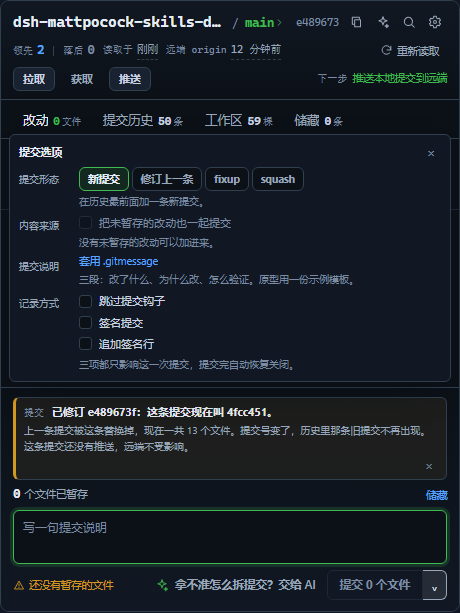
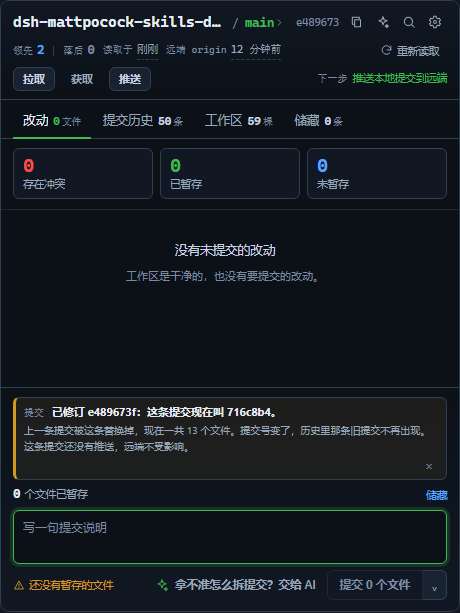
原型：提交选项收起后仍看得见，Esc 与点外面能关掉
从用户视角回看，四个问题的共同点是「选择做完就看不见了」，一起修：

- 跳过钩子、签名提交、追加签名行开着时，在提交按钮上方多一行标签（跳过钩子是危险色），
  箭头的说明里也列出已开启项；这三项原来收起浮层后没有任何痕迹，可能静默跳过提交前检查。
- 展开区按 Esc 或点它外面收起，换页签也收起，焦点回到箭头；它盖在文件列表上，
  收不起来就只能回去够那颗箭头。
- 一次提交成功后形态回到「新提交」，三个记录方式与「一起提交」一起归零；
  fixup / squash 原来提交完还停在自动说明那一屏，输入框回不来。
- 「一起提交」的底部提示写明只收已跟踪的改动、份数多少，未跟踪的新文件不算。

新增 79 / 80 两张截图（浮层收起时的标签，深色 460 与浅色 300）；默认首屏与 62 / 63 / 65 仍一致。

diff --git a/docs/prototype/vc-redesign/app.js b/docs/prototype/vc-redesign/app.js
@@ -3730,7 +3730,7 @@
       case "demo-worktrees":
         return { ...state, demoWorktrees: true };
       case "view":
-        return { ...state, view: action.view };
+        return { ...state, view: action.view, commitOptionsOpen: false };
       case "tick":
         return { ...state };
       case "stage": {
@@ -3872,7 +3872,11 @@
           skipHooks: false,
           signCommit: false,
           signoff: false,
-          templateApplied: false
+          templateApplied: false,
+          // 提交完成之后这次的选择已经用掉了：形态回到「新提交」，展开区收起
+          // （展开区里每一项都是「这一次提交」的设置，留着它只会让人以为还有效）。
+          commitForm: "commit",
+          commitOptionsOpen: false
         };
         if (form === "amend" && head !== null) {
           const amended = {
@@ -3892,7 +3896,6 @@
             ...state,
             ...baseReset,
             message: "",
-            commitForm: "commit",
             replacedOid,
             localCommits: headIsLocal ? [amended, ...state.localCommits.slice(1)] : [amended, ...state.localCommits],
             ahead: pushed ? 1 : state.ahead,
@@ -4865,7 +4868,11 @@
       }
     }
     const commitLabel = form === "amend" ? COPY.commitOptions.labelAmend : form === "fixup" ? COPY.commitOptions.labelFixup : form === "squash" ? COPY.commitOptions.labelSquash : COPY.changes.commitLabel(effectiveCount);
-    const commitHint = form === "amend" ? effectiveCount === 0 ? "\u8FD9\u6B21\u53EA\u6539\u63D0\u4EA4\u8BF4\u660E\uFF0C\u5185\u5BB9\u6CBF\u7528\u4E0A\u4E00\u6761\u63D0\u4EA4\u3002" : "\u8FD9\u6B21\u4F1A\u628A\u5DF2\u6682\u5B58\u7684\u6587\u4EF6\u5E76\u8FDB\u4E0A\u4E00\u6761\u63D0\u4EA4\uFF0C\u63D0\u4EA4\u53F7\u4F1A\u53D8\u3002" : form === "fixup" ? "fixup \u63D0\u4EA4\u6302\u5728\u5386\u53F2\u6700\u524D\u9762\uFF0C\u7B49\u6574\u7406\u5386\u53F2\u65F6\u538B\u56DE\u4E0A\u4E00\u6761\u3002" : form === "squash" ? "squash \u63D0\u4EA4\u6302\u5728\u5386\u53F2\u6700\u524D\u9762\uFF0C\u7B49\u6574\u7406\u5386\u53F2\u65F6\u548C\u4E0A\u4E00\u6761\u5E76\u6210\u4E00\u6761\u3002" : alsoTracked.length > 0 ? "\u672A\u6682\u5B58\u7684\u6539\u52A8\u4F1A\u5148\u88AB\u6682\u5B58\uFF0C\u518D\u4E00\u8D77\u63D0\u4EA4\u3002" : COPY.changes.messageHint;
+    const commitHint = form === "amend" ? effectiveCount === 0 ? "\u8FD9\u6B21\u53EA\u6539\u63D0\u4EA4\u8BF4\u660E\uFF0C\u5185\u5BB9\u6CBF\u7528\u4E0A\u4E00\u6761\u63D0\u4EA4\u3002" : "\u8FD9\u6B21\u4F1A\u628A\u5DF2\u6682\u5B58\u7684\u6587\u4EF6\u5E76\u8FDB\u4E0A\u4E00\u6761\u63D0\u4EA4\uFF0C\u63D0\u4EA4\u53F7\u4F1A\u53D8\u3002" : form === "fixup" ? "fixup \u63D0\u4EA4\u6302\u5728\u5386\u53F2\u6700\u524D\u9762\uFF0C\u7B49\u6574\u7406\u5386\u53F2\u65F6\u538B\u56DE\u4E0A\u4E00\u6761\u3002" : form === "squash" ? "squash \u63D0\u4EA4\u6302\u5728\u5386\u53F2\u6700\u524D\u9762\uFF0C\u7B49\u6574\u7406\u5386\u53F2\u65F6\u548C\u4E0A\u4E00\u6761\u5E76\u6210\u4E00\u6761\u3002" : alsoTracked.length > 0 ? "\u4F1A\u5148\u6682\u5B58\u8FD9 " + alsoTracked.length + " \u4E2A\u5DF2\u8DDF\u8E2A\u7684\u6539\u52A8\uFF1B\u672A\u8DDF\u8E2A\u7684\u65B0\u6587\u4EF6\u4E0D\u7B97\u3002" : COPY.changes.messageHint;
+    const recordFlags = [];
+    if (state.skipHooks) recordFlags.push({ label: COPY.commitOptions.skipHooks, hint: COPY.commitOptions.skipHooksNote });
+    if (state.signCommit) recordFlags.push({ label: COPY.commitOptions.signCommit, hint: COPY.commitOptions.signCommitNote });
+    if (state.signoff) recordFlags.push({ label: COPY.commitOptions.signoff, hint: COPY.commitOptions.signoffNote });
     const changeCount = state.staged.length + state.unstaged.length;
     return {
       stats: [
@@ -4897,6 +4904,7 @@
         disabledReason,
         busy: state.busy === "commit",
         label: commitLabel,
+        flags: recordFlags,
         optionsOpen: state.commitOptionsOpen,
         options: {
           form,
@@ -8242,14 +8250,15 @@
       action: "commit",
       focusKey: "commit"
     });
+    const flagNames = model.composer.flags.map((flag) => flag.label).join("\u3001");
     const optionsToggle = h("button", {
       class: "commit-options-toggle" + (model.composer.optionsOpen ? " is-on" : ""),
       attrs: {
         type: "button",
         "aria-expanded": model.composer.optionsOpen ? "true" : "false",
         "aria-haspopup": "true",
-        "aria-label": COPY.commitOptions.triggerLabel,
-        title: COPY.commitOptions.triggerHint,
+        "aria-label": flagNames === "" ? COPY.commitOptions.triggerLabel : COPY.commitOptions.triggerLabel + "\uFF08\u5DF2\u5F00\u542F\uFF1A" + flagNames + "\uFF09",
+        title: flagNames === "" ? COPY.commitOptions.triggerHint : COPY.commitOptions.triggerHint + "\u3002\u5DF2\u5F00\u542F\uFF1A" + flagNames,
         "data-focus-key": "commit-options"
       },
       dataset: { action: "commit-options-toggle" }
@@ -8260,6 +8269,11 @@
       icon("alert", 12),
       h("span", { text: model.composer.disabledReason })
     );
+    const flagNode = model.composer.flags.length === 0 ? null : h(
+      "div",
+      { class: "composer-flags", attrs: { role: "status", "aria-label": "\u8FD9\u6B21\u63D0\u4EA4\u5DF2\u6253\u5F00\u7684\u8BB0\u5F55\u65B9\u5F0F" } },
+      ...model.composer.flags.map((flag) => chip(flag.label, flag.label === COPY.commitOptions.skipHooks ? "warn" : "info", { small: true, title: flag.hint }))
+    );
     const foot = h(
       "div",
       { class: "composer-foot", id: "commit-hint" },
@@ -8267,7 +8281,9 @@
       handoffEntry(HANDOFF_ENTRY.changes, "changes"),
       h("div", { class: "commit-split" }, commitButton, optionsToggle)
     );
-    composer.append(stagedLine, messageNode, foot);
+    composer.append(stagedLine, messageNode);
+    if (flagNode !== null) composer.append(flagNode);
+    composer.append(foot);
     if (model.composer.optionsOpen) composer.append(renderCommitOptions(model.composer));
     view.append(filterRow, list, composer);
     return view;
@@ -11807,6 +11823,11 @@
         repaint({ focusKey: `handoff-${previous}` });
         return;
       }
+      if (event.key === "Escape" && state.commitOptionsOpen) {
+        event.preventDefault();
+        dispatch({ type: "commit-options-toggle" }, { focusKey: "commit-options" });
+        return;
+      }
       if (event.key === "Escape" && state.changesPending !== null) {
         event.preventDefault();
         dispatch({ type: "changes-pending", pending: null }, { focusKey: lastFocusKey });
@@ -11882,6 +11903,9 @@
       if (state.branchOpen && target.closest(".branch-pop") === null && target.closest('[data-action="branch-open"]') === null) {
         state = reduce(state, { type: "branch-close" }, base);
         repaint({ focusKey: "branch-open" });
+      }
+      if (state.commitOptionsOpen && target.closest(".commit-options") === null && target.closest('[data-action="commit-options-toggle"]') === null) {
+        dispatch({ type: "commit-options-toggle" }, { focusKey: lastFocusKey });
       }
       const insideTransient = target.closest(".row-menu, .row-more, .row-act, .commit-menu, .commit-more, .changes-confirm, .commit-confirm") !== null;
       if (!insideTransient && (commitMenuOid !== null || commitConfirmOid !== null || state.openMenuPath !== null)) {

diff --git a/docs/prototype/vc-redesign/src/ui/views/changes.ts b/docs/prototype/vc-redesign/src/ui/views/changes.ts
@@ -115,14 +115,17 @@ export function renderChanges(model: ChangesModel, result: ResultMessage | null)
   })
   // 「提交选项」的入口是贴在主按钮右边的一枚箭头：它属于这颗按钮，不新增一行、也不改首屏高度，
   // 展开区里的形态、模板、钩子与签名只在点开之后出现。
+  // 展开区收起以后，跳过钩子 / 签名 / 签名行在别处看不出来：把它们的名字写进箭头自己的说明里，
+  // 读屏器停在箭头上就能听到「已开启：跳过钩子」，不用先把展开区点开。
+  const flagNames = model.composer.flags.map((flag) => flag.label).join('、')
   const optionsToggle = h('button', {
     class: 'commit-options-toggle' + (model.composer.optionsOpen ? ' is-on' : ''),
     attrs: {
       type: 'button',
       'aria-expanded': model.composer.optionsOpen ? 'true' : 'false',
       'aria-haspopup': 'true',
-      'aria-label': COPY.commitOptions.triggerLabel,
-      title: COPY.commitOptions.triggerHint,
+      'aria-label': flagNames === '' ? COPY.commitOptions.triggerLabel : COPY.commitOptions.triggerLabel + '（已开启：' + flagNames + '）',
+      title: flagNames === '' ? COPY.commitOptions.triggerHint : COPY.commitOptions.triggerHint + '。已开启：' + flagNames,
       'data-focus-key': 'commit-options',
     },
     dataset: { action: 'commit-options-toggle' },
@@ -135,11 +138,19 @@ export function renderChanges(model: ChangesModel, result: ResultMessage | null)
     ? h('span', { class: 'hint-text', text: model.composer.hint })
     : h('span', { class: 'composer-reason', id: 'commit-reason' },
       icon('alert', 12), h('span', { text: model.composer.disabledReason }))
+  // 记录方式一开着就单独占一行，贴在提交按钮上方：跳过钩子会改变提交前检查，
+  // 不能只活在收起后的展开区里；塞进脚注那一行会和禁用原因抢宽度，窄档下两边都读不成句。
+  const flagNode = model.composer.flags.length === 0
+    ? null
+    : h('div', { class: 'composer-flags', attrs: { role: 'status', 'aria-label': '这次提交已打开的记录方式' } },
+      ...model.composer.flags.map((flag) => chip(flag.label, flag.label === COPY.commitOptions.skipHooks ? 'warn' : 'info', { small: true, title: flag.hint })))
   const foot = h('div', { class: 'composer-foot', id: 'commit-hint' },
     footLeft,
     handoffEntry(HANDOFF_ENTRY.changes, 'changes'),
     h('div', { class: 'commit-split' }, commitButton, optionsToggle))
-  composer.append(stagedLine, messageNode, foot)
+  composer.append(stagedLine, messageNode)
+  if (flagNode !== null) composer.append(flagNode)
+  composer.append(foot)
   // 提交选项贴在提交区上方浮起来，不再挤占文件列表：它是一次临时选择（形态、模板、钩子、签名），
   // 松开以后文件列表还是原来那么高。这和分支浮层、行菜单是同一种「贴触发点的浮层」。
   if (model.composer.optionsOpen) composer.append(renderCommitOptions(model.composer))

diff --git a/docs/prototype/vc-redesign/src/domain/select.ts b/docs/prototype/vc-redesign/src/domain/select.ts
@@ -126,6 +126,13 @@ export interface CommitOptionsModel {
   messageEditable: boolean
 }
 
+/** 一条「开着但收起后看不见」的记录方式：名字与原因一起做成一枚贴着提交按钮的小标签。 */
+export interface ComposerFlagModel {
+  label: string
+  /** 悬停时补一句后果，例如「提交前的检查不会跑」。 */
+  hint: string
+}
+
 export interface ComposerModel {
   stagedCount: number
   message: string
@@ -136,6 +143,12 @@ export interface ComposerModel {
   busy: boolean
   /** 主按钮上的字：跟着提交形态变，读者不用打开展开区就知道这一下会做什么。 */
   label: string
+  /**
+   * 已经打开、但收起展开区之后在别处看不出来的选项（跳过钩子、签名、签名行）。
+   * 这三项一旦打开就会改变这一次提交被怎么记下来，所以必须在按钮旁边就说出来；
+   * 形态、-a 与模板各自会改按钮文字或输入框，不用再列一遍。
+   */
+  flags: ComposerFlagModel[]
   optionsOpen: boolean
   options: CommitOptionsModel
 }
@@ -644,8 +657,15 @@ export function changesOf(base: SessionBase, state: SessionState): ChangesModel 
       : form === 'squash'
         ? 'squash 提交挂在历史最前面，等整理历史时和上一条并成一条。'
         : alsoTracked.length > 0
-          ? '未暂存的改动会先被暂存，再一起提交。'
+          // 只写「未暂存的改动」会让人以为未跟踪的新文件也算进来：它们不在这一批里，必须点名。
+          ? '会先暂存这 ' + alsoTracked.length + ' 个已跟踪的改动；未跟踪的新文件不算。'
           : COPY.changes.messageHint
+
+  // 三个记录方式各自会让这次提交按另一种方式被记下来，收起展开区之后就只剩这里能看见。
+  const recordFlags: ComposerFlagModel[] = []
+  if (state.skipHooks) recordFlags.push({ label: COPY.commitOptions.skipHooks, hint: COPY.commitOptions.skipHooksNote })
+  if (state.signCommit) recordFlags.push({ label: COPY.commitOptions.signCommit, hint: COPY.commitOptions.signCommitNote })
+  if (state.signoff) recordFlags.push({ label: COPY.commitOptions.signoff, hint: COPY.commitOptions.signoffNote })
 
   const changeCount = state.staged.length + state.unstaged.length
   return {
@@ -678,6 +698,7 @@ export function changesOf(base: SessionBase, state: SessionState): ChangesModel 
       disabledReason,
       busy: state.busy === 'commit',
       label: commitLabel,
+      flags: recordFlags,
       optionsOpen: state.commitOptionsOpen,
       options: {
         form,

diff --git a/docs/prototype/vc-redesign/src/ui/app.ts b/docs/prototype/vc-redesign/src/ui/app.ts
@@ -1293,6 +1293,13 @@ export function mount(root: HTMLElement): void {
       repaint({ focusKey: `handoff-${previous}` })
       return
     }
+    // 提交选项盖在文件列表上，Esc 先收它：读者点开看一眼再想回去看文件时，
+    // 不该先去够那颗箭头。焦点回到箭头本身，下一次 Tab 仍然从这里往下走。
+    if (event.key === 'Escape' && state.commitOptionsOpen) {
+      event.preventDefault()
+      dispatch({ type: 'commit-options-toggle' }, { focusKey: 'commit-options' })
+      return
+    }
     if (event.key === 'Escape' && state.changesPending !== null) {
       event.preventDefault()
       dispatch({ type: 'changes-pending', pending: null }, { focusKey: lastFocusKey })
@@ -1374,6 +1381,10 @@ export function mount(root: HTMLElement): void {
     if (state.branchOpen && target.closest('.branch-pop') === null && target.closest('[data-action="branch-open"]') === null) {
       state = reduce(state, { type: 'branch-close' }, base)
       repaint({ focusKey: 'branch-open' })
+    }
+    // 提交选项也是一层贴着的浮层：点它自己和那颗箭头以外的地方都收起，和行菜单同一套规矩。
+    if (state.commitOptionsOpen && target.closest('.commit-options') === null && target.closest('[data-action="commit-options-toggle"]') === null) {
+      dispatch({ type: 'commit-options-toggle' }, { focusKey: lastFocusKey })
     }
     const insideTransient = target.closest('.row-menu, .row-more, .row-act, .commit-menu, .commit-more, .changes-confirm, .commit-confirm') !== null
     if (!insideTransient && (commitMenuOid !== null || commitConfirmOid !== null || state.openMenuPath !== null)) {

diff --git a/docs/prototype/vc-redesign/src/domain/session.ts b/docs/prototype/vc-redesign/src/domain/session.ts
@@ -405,7 +405,8 @@ export function reduce(state: SessionState, action: Action, base: SessionBase): 
     case 'demo-worktrees':
       return { ...state, demoWorktrees: true }
     case 'view':
-      return { ...state, view: action.view }
+      // 换页签等于离开这次提交：展开区收起，不把盖在列表上的浮层带到别的页签去。
+      return { ...state, view: action.view, commitOptionsOpen: false }
     case 'tick':
       return { ...state }
     case 'stage': {
@@ -550,6 +551,10 @@ export function reduce(state: SessionState, action: Action, base: SessionBase): 
         signCommit: false,
         signoff: false,
         templateApplied: false,
+        // 提交完成之后这次的选择已经用掉了：形态回到「新提交」，展开区收起
+        // （展开区里每一项都是「这一次提交」的设置，留着它只会让人以为还有效）。
+        commitForm: 'commit' as CommitForm,
+        commitOptionsOpen: false,
       }
 
       if (form === 'amend' && head !== null) {
@@ -572,7 +577,6 @@ export function reduce(state: SessionState, action: Action, base: SessionBase): 
           ...state,
           ...baseReset,
           message: '',
-          commitForm: 'commit',
           replacedOid,
           localCommits: headIsLocal ? [amended, ...state.localCommits.slice(1)] : [amended, ...state.localCommits],
           ahead: pushed ? 1 : state.ahead,

diff --git a/docs/prototype/vc-redesign/styles/app.css b/docs/prototype/vc-redesign/styles/app.css
@@ -983,6 +983,9 @@ h1, h2, h3, p, dl, dd, dt { margin: 0; }
 .composer-foot .composer-reason { flex: 1; min-width: 0; display: flex; align-items: center; gap: 4px; font-size: 10.5px; line-height: 1.45; color: var(--warn); }
 .composer-foot .composer-reason svg { flex: none; }
 .composer-foot .btn { flex: none; margin-left: auto; }
+/* 已打开的记录方式单独一行，贴在提交按钮上方：跳过钩子这类选项收起展开区之后只有这里看得见。
+   它不挤进脚注那一行——窄档下禁用原因和它是两件都要读的事，合在一行两边都会被压断。 */
+.composer-flags { display: flex; flex-wrap: wrap; align-items: center; gap: 4px; }
 
 /* ---------- 提交选项：形态、内容来源、说明模板、钩子与签名 ---------- */
 

diff --git a/docs/prototype/vc-redesign/README.md b/docs/prototype/vc-redesign/README.md
@@ -118,6 +118,14 @@
 历史最前面那条提交会换成新的提交号并带上「修订」标记。fixup 与 squash 同理，说明由面板写成 `fixup! …`，
 提交完成后历史最前面多一条带 `fixup` 标记的提交。跳过钩子、签名、签名行会在提交行上留下对应的小标记。
 
+**收起以后也看得见、关得掉。** 滑动跳过钩子、签名提交、追加签名行这三项一旦打开，就在提交按钮上方多一行标签
+（跳过钩子是危险色），箭头自己的说明里也写着「已开启：…」，不用重新点开浮层才知道这一次提交会跳检查、带签名行。
+浮层本身按 Esc 或点它外面就收起，焦点回到箭头；换页签也会收起。一次提交成功之后，形态回到「新提交」，
+三个记录方式与「一起提交」一起归零——留着它们只会让人以为下一次提交还按老样子来。
+
+**「一起提交」收的是已跟踪的改动。** 打开后底部提示写「会先暂存这 N 个已跟踪的改动；未跟踪的新文件不算」，
+和 git commit -a 的实际行为一致；份数从按钮上的「提交 N 个文件」也能核对。
+
 **每条能力落在哪种控件上，逐条记在 `capability-entries.md`。** 那张表由
 `tools/check-capability-entries.ts --write` 从 `src/data/capability-entries.ts` 生成：
 四页签上的 49 条手写决定（哪一种控件、具体落在哪、这次画没画、为什么放这里），
@@ -273,7 +281,7 @@ docs/prototype/vc-redesign/
 
 ## 截图
 
-01–36 是原型早期布局（提交 f5845c85 那一版）留下的对照图，重跑脚本不会覆盖它们；那批图是旧布局，界面词也和现在不同（例如工作区当时叫「工作树」、储藏当时叫「贮藏」），只用来看布局，不要拿它核对现在的界面词。37–78 由 `tools/screenshots.mjs` 按深链逐张生成，重跑脚本只更新这一批。面板本身跟着宽度参数变，所以同一状态在 300 与 460 下各截一张。要补一张新图，在脚本的 `SHOTS` 清单里加一行查询串即可。
+01–36 是原型早期布局（提交 f5845c85 那一版）留下的对照图，重跑脚本不会覆盖它们；那批图是旧布局，界面词也和现在不同（例如工作区当时叫「工作树」、储藏当时叫「贮藏」），只用来看布局，不要拿它核对现在的界面词。37–80 由 `tools/screenshots.mjs` 按深链逐张生成，重跑脚本只更新这一批。面板本身跟着宽度参数变，所以同一状态在 300 与 460 下各截一张。要补一张新图，在脚本的 `SHOTS` 清单里加一行查询串即可。
 
 | 文件 | 内容 |
 | --- | --- |
@@ -355,6 +363,8 @@ docs/prototype/vc-redesign/
 | `screenshots/76-commit-amend-result-460.png` | 修订完成后的结果条：提交号变了、页签条数不变 |
 | `screenshots/77-commit-fixup-460.png` | fixup 形态：输入框换成自动说明 `fixup! …` |
 | `screenshots/78-commit-fixup-history-460.png` | fixup 提交在历史最前面，行上带 fixup 标记 |
+| `screenshots/79-commit-flags-460.png` | 跳过钩子与签名行开着、浮层收起：按钮上方多一行标签 |
+| `screenshots/80-commit-flags-light-300.png` | 300 宽浅色下的同一状态，标签与禁用原因各占一行 |
 
 ## 和真实代码的关系
 
